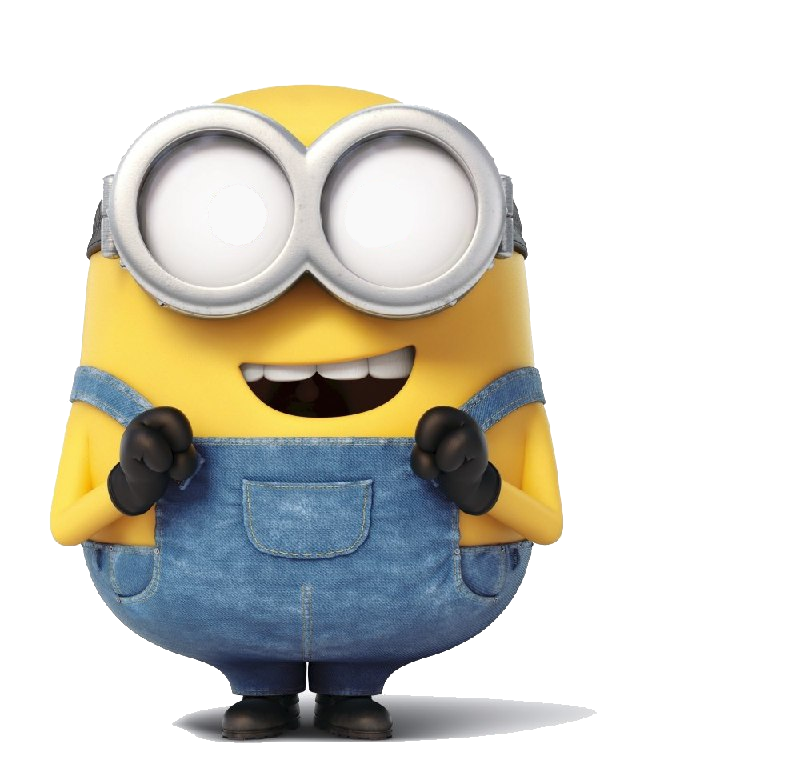
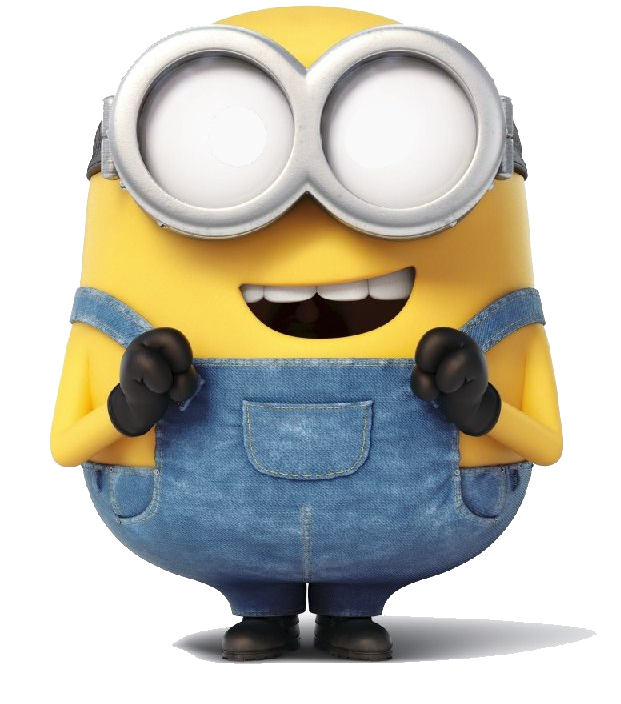
fix minio position and size

diff --git a/src/sass/components/_library-background.scss b/src/sass/components/_library-background.scss
@@ -1,7 +1,7 @@
   .main-div {
     display: none;
 
-    @media screen and (min-width: 786px) {
+    @media screen and (min-width: 768px) {
       display: grid;
     place-items: center;
     min-height: 100vh;
@@ -10,15 +10,15 @@
   }
   
   .minion-img{
-    max-width: 768px;
-    max-height: 768px;
+    max-width: 622px;
+    max-height: 704px;
   }
   
   .eyes-wrapper {
     display: flex;
     position: relative;
-    right: 75px;
-    bottom: 645px;
+    right: -10px;
+    bottom: 690px;
   }
   .eye {
     width: 10em;
